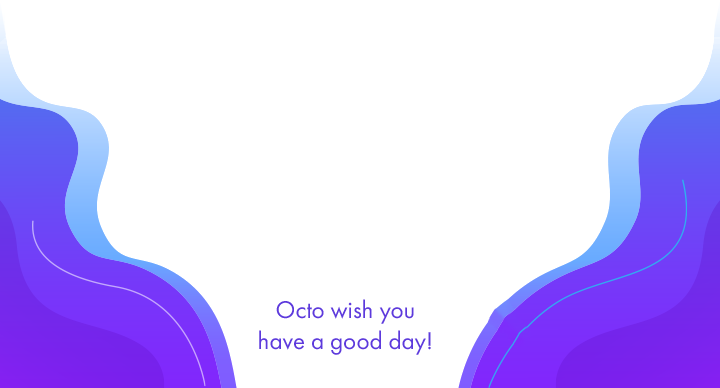
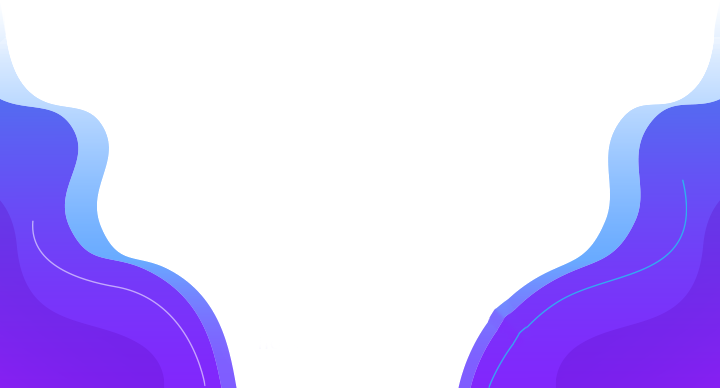
[update project]

Changed region(s): [[0.3667, 0.7732, 0.5806, 0.8351], [0.3361, 0.866, 0.6111, 0.9278]]

diff --git a/Assets/_mapping/Scripts/GameLogic.cs b/Assets/_mapping/Scripts/GameLogic.cs
@@ -10,14 +10,18 @@ public class GameLogic : MonoBehaviour
     [SerializeField] private Sprite[] _textNoBlurs;
     [SerializeField] private Sprite _textViewMoreNormal;
     [SerializeField] private Sprite _textViewMoreBlur;
+    [SerializeField] private Transform _hand;
 
+    private IEnumerator _showNextTextAuto;
     private int _startIndex = 0;
     private int _currentIndex = -1;
+    private Vector3 _startHandPos = new Vector3(1.82f, -2.75f, 0);
     private Vector3 _dragStartPos;
     private float _dragDistance;
     private float _thresholdDistance = 2f;
     private float _clickViewMoreRadius = 0.5f;
-    private bool _canShowViewMore;
+    private bool _canShowViewMore, _calledRoutine;
+    private bool _playInstruction = true;
 
     private void Start()
     {
@@ -26,17 +30,50 @@ public class GameLogic : MonoBehaviour
             _textNoSRs[i].sprite = _textNoBlurs[i];
             _textViewMoreSRs[i].sprite = _textViewMoreBlur;
         }
+        _showNextTextAuto = ShowNextTextAuto();
+    }
+
+    private IEnumerator ShowNextTextAuto()
+    {
+        while (true)
+        {
+            yield return new WaitForSeconds(2f);
+            _calledRoutine = true;
+            _startIndex = _currentIndex;
+            int index = Mathf.Clamp(_startIndex + 1, 0, _textNoSRs.Length - 1);
+
+            UpdateSprites(index);
+
+            if (_currentIndex == _textNoSRs.Length - 1) 
+            {
+                yield break;
+            }
+        }
     }
 
     void Update()
     {
         HandleDrag();
+
+        if (_playInstruction)
+        {
+            if (_hand.position.y < -1.5f)
+            {
+                _hand.position += Vector3.up * Time.deltaTime * 1f;
+            }
+            else
+            {
+                _hand.position = _startHandPos;
+            }
+        }
     }
 
     void HandleDrag()
     {
         if (Input.GetMouseButtonDown(0))
         {
+            StopCoroutine(_showNextTextAuto);
+            if (_calledRoutine) { _startIndex = _currentIndex; }
             _dragStartPos = Camera.main.ScreenToWorldPoint(Input.mousePosition);
             _dragStartPos.z = 0;
 
@@ -46,6 +83,7 @@ public class GameLogic : MonoBehaviour
                 {
                     Debug.Log("_canShowViewMore ===== " + _canShowViewMore);
                     _textNoSRs[i].maskInteraction = SpriteMaskInteraction.None;
+                    _textViewMoreSRs[i].gameObject.SetActive(false);
                 }
             }
         }
@@ -66,6 +104,8 @@ public class GameLogic : MonoBehaviour
         if (Input.GetMouseButtonUp(0))
         {
             _startIndex = _currentIndex;
+            _showNextTextAuto = ShowNextTextAuto();
+            StartCoroutine(_showNextTextAuto);
         }
     }
 
@@ -83,5 +123,8 @@ public class GameLogic : MonoBehaviour
         _currentIndex = newIndex;
         Debug.Log("currentIndex ===== " + _currentIndex);
         _canShowViewMore = true;
+
+        _playInstruction = false;
+        _hand.gameObject.SetActive(false);
     }
 }

diff --git a/Assets/GeneralScripts/BackgroundSpriteRenderer.cs b/Assets/GeneralScripts/BackgroundSpriteRenderer.cs
@@ -5,13 +5,24 @@ public class BackgroundSpriteRenderer : MonoBehaviour
 {
     private void OnValidate()
     {
-        ResizeSpriteToScreen(false);
+        //ResizeSpriteToScreen(false);
     }
     public void UpdateScaling()
     {
-        OnValidate();
+        //OnValidate();
     }
-        
+
+    private void Start()
+    {
+        ResizeSpriteToScreen(false);
+        //Invoke(nameof(ResizeTrue), 8);
+    }
+
+    void ResizeTrue()
+    {
+        ResizeSpriteToScreen(true);
+        this.GetComponent<SpriteRenderer>().color = Color.red;
+    }
 
 
     private void ResizeSpriteToScreen(bool keepAspect = false)
